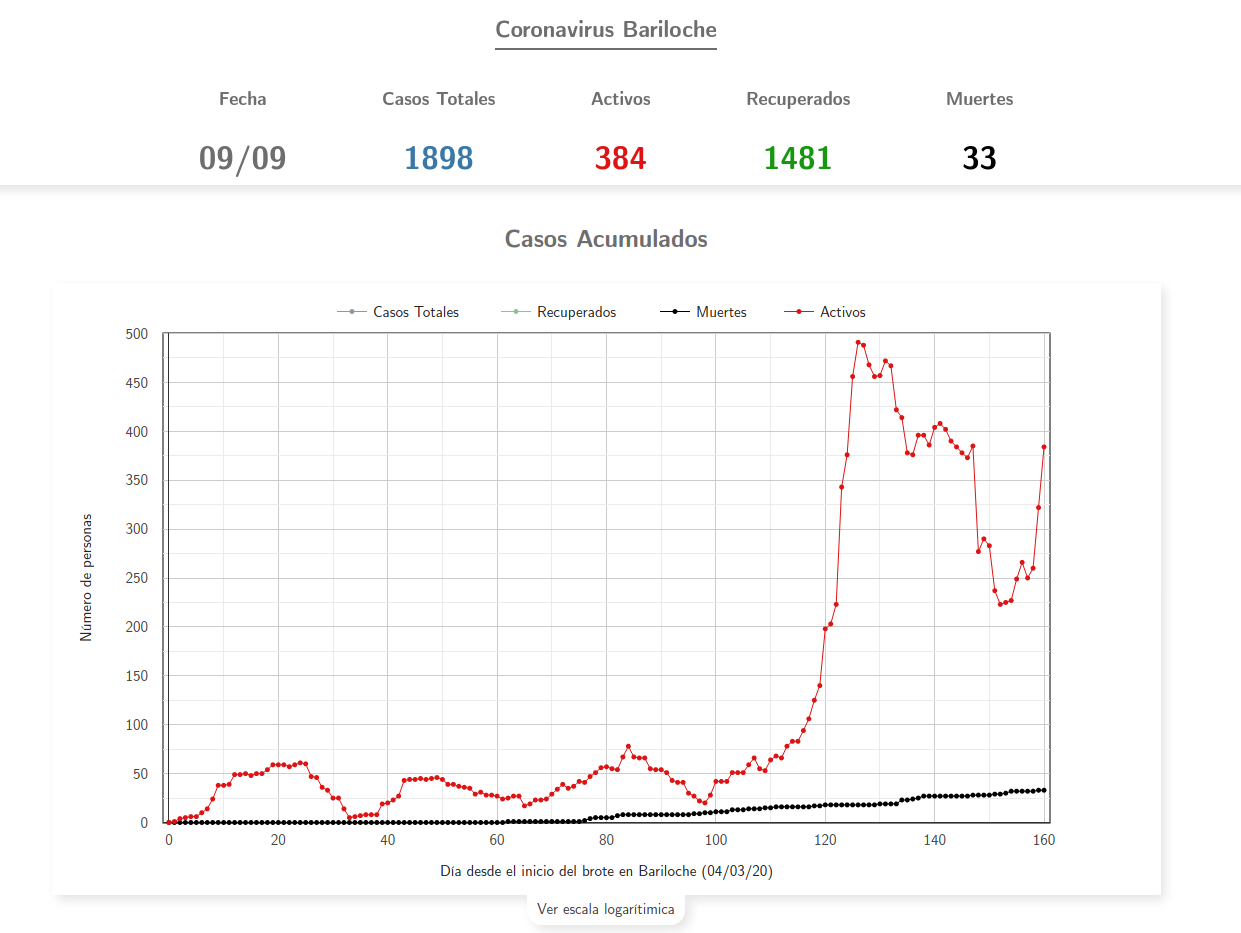
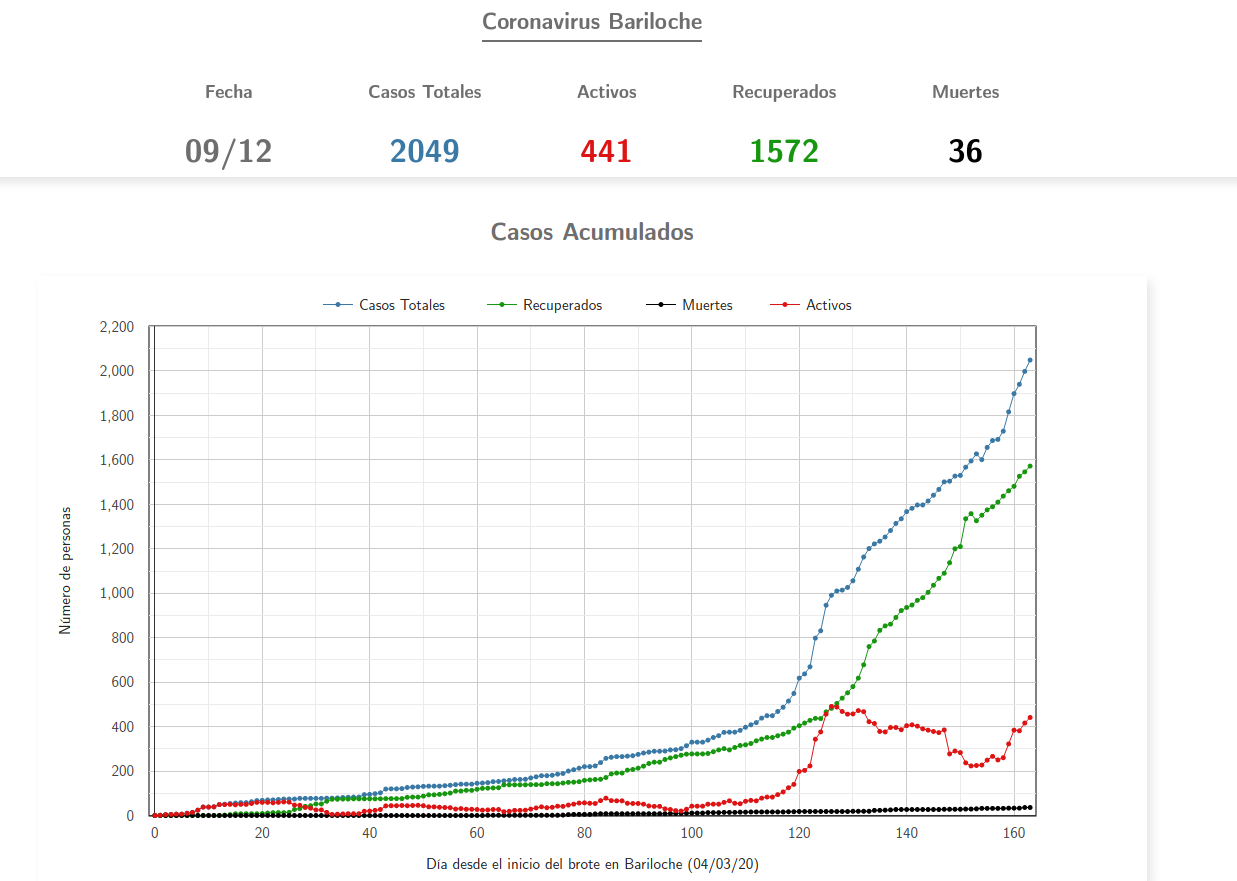
update data and preview

diff --git a/html/references.html b/html/references.html
@@ -88,6 +88,10 @@
 					<div class="description"><span style="font-style: italic">El Cordillerano</span>: 11 de septiembre de 2020</div>
 					<a href="https://www.elcordillerano.com.ar/noticias/2020/09/11/95208-la-provincia-registro-265-nuevos-contagios-y-ocho-fallecidos" target="_blank">https://www.elcordillerano.com.ar/noticias/2020/09/11/95208-la-provincia-registro-265-nuevos-contagios-y-ocho-fallecidos</a>
 				</li>
+				<li>
+					<div class="description"><span style="font-style: italic">El Cordillerano</span>: 12 de septiembre de 2020</div>
+					<a href="https://www.elcordillerano.com.ar/noticias/2020/09/12/95258-bariloche-esta-al-borde-de-los-450-pacientes-con-covid-19" target="_blank">https://www.elcordillerano.com.ar/noticias/2020/09/12/95258-bariloche-esta-al-borde-de-los-450-pacientes-con-covid-19</a>
+				</li>
 			</ul>
 
 			<p>Los datos que figuran en los gráficos son los reportados en las noticias publicadas en <span style="font-style: italic; font-size: large">El Cordillerano</span>. Puede haber casos que tengan otro desenlace que los presentados en la página, así que se respetan los datos reportados.</p>

diff --git a/js/plot.js b/js/plot.js
@@ -492,5 +492,6 @@ const dataArray = [
 	[159, '09/08/20', 87, null, 24, 1461, 1, 33, 322],
 	[160, '09/09/20', 82, null, 20, 1481, 0, 33, 384],
 	[161, '09/10/20', 42, 1940, 45, 1526, 0, 33, 381],
-	[162, '09/11/20', 58, null, 20, 1546, 3, 36, 416]
+	[162, '09/11/20', 58, null, 20, 1546, 3, 36, 416],
+	[163, '09/12/20', 51, 2049, 26, 1572, 0, 36, 441]
 ];
